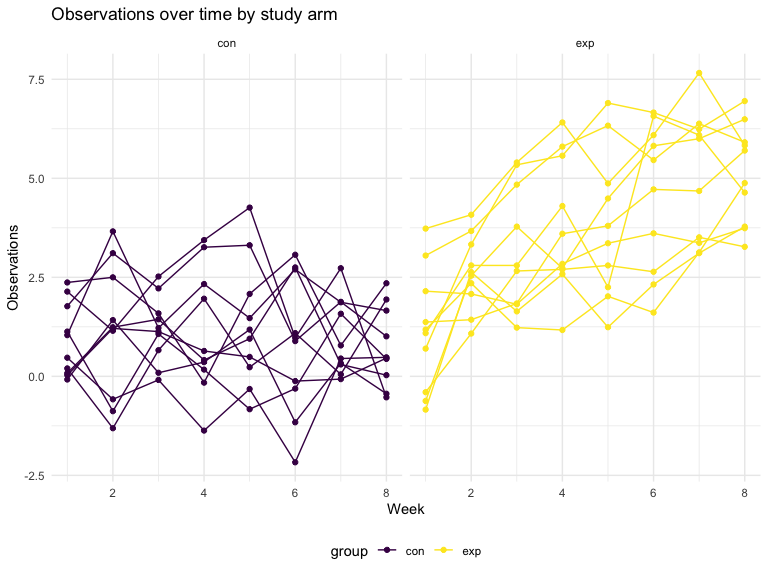
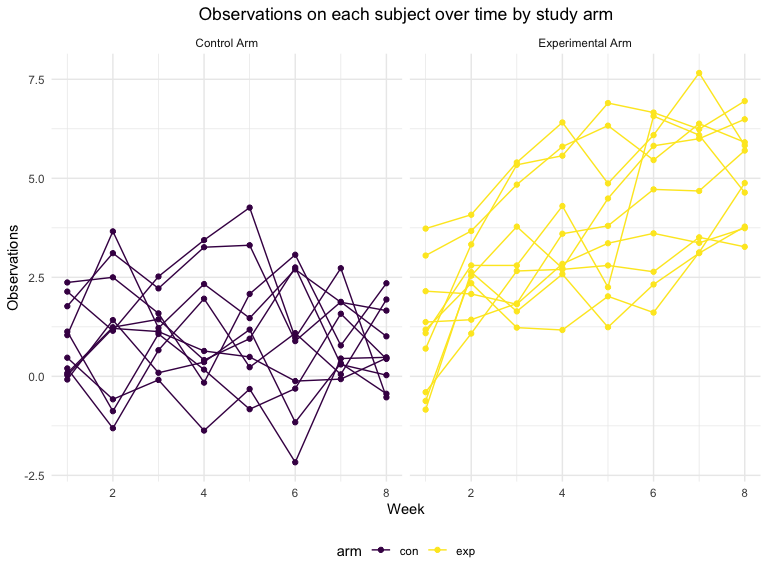
cleaned up figures

Changed region(s): [[0.0625, 0.0, 0.8125, 0.0938], [0.4375, 0.9375, 0.625, 0.9688], [0.25, 0.0625, 0.3438, 0.0938]]

diff --git a/p8105_hw5_hr2479.md b/p8105_hw5_hr2479.md
@@ -174,7 +174,7 @@ longitudinal_df =
   unnest(data) %>% 
   mutate(
     files = str_replace(files, ".csv", ""),
-    group = str_sub(files, 1, 3)) %>% 
+    arm = str_sub(files, 1, 3)) %>% 
   pivot_longer(
     week_1:week_8,
     names_to = "week",
@@ -183,23 +183,27 @@ longitudinal_df =
   mutate(week = as.numeric(week),
          subject_id = files
          ) %>% 
-  select(group, subject_id, week, observation)
+  select(arm, subject_id, week, observation)
 ```
 
 -   Make a spaghetti plot showing observations on each subject over
     time, and comment on differences between groups
 
 ``` r
+arm.labs <- c("Control Arm", "Experimental Arm")
+names(arm.labs) <- c("con", "exp")
+
 spaghetti_plot = 
   longitudinal_df %>% 
-  ggplot(aes(x = week, y = observation, group = subject_id, color = group)) + 
+  ggplot(aes(x = week, y = observation, group = subject_id, color = arm)) + 
   geom_line() + 
   geom_point() + 
-  facet_grid(~group) +
+  facet_grid(~arm,  labeller = labeller(arm = arm.labs)) +
   labs(
       x = "Week", 
       y = "Observations",
-      title = "Observations over time by study arm") 
+      title = "Observations on each subject over time by study arm") +
+  theme(plot.title = element_text(hjust = 0.5))
 
 spaghetti_plot
 ```
